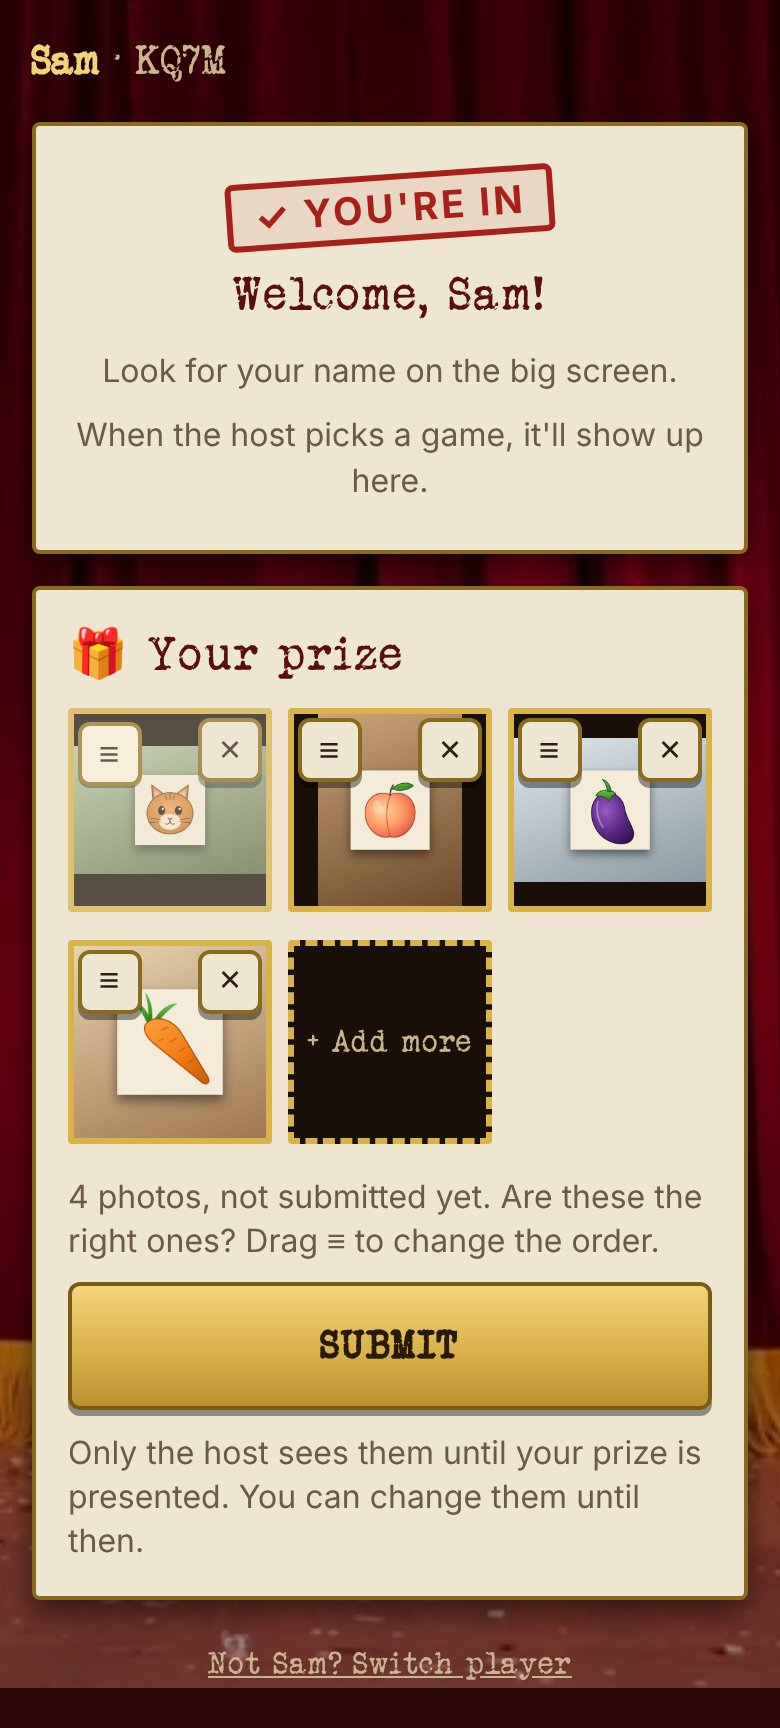
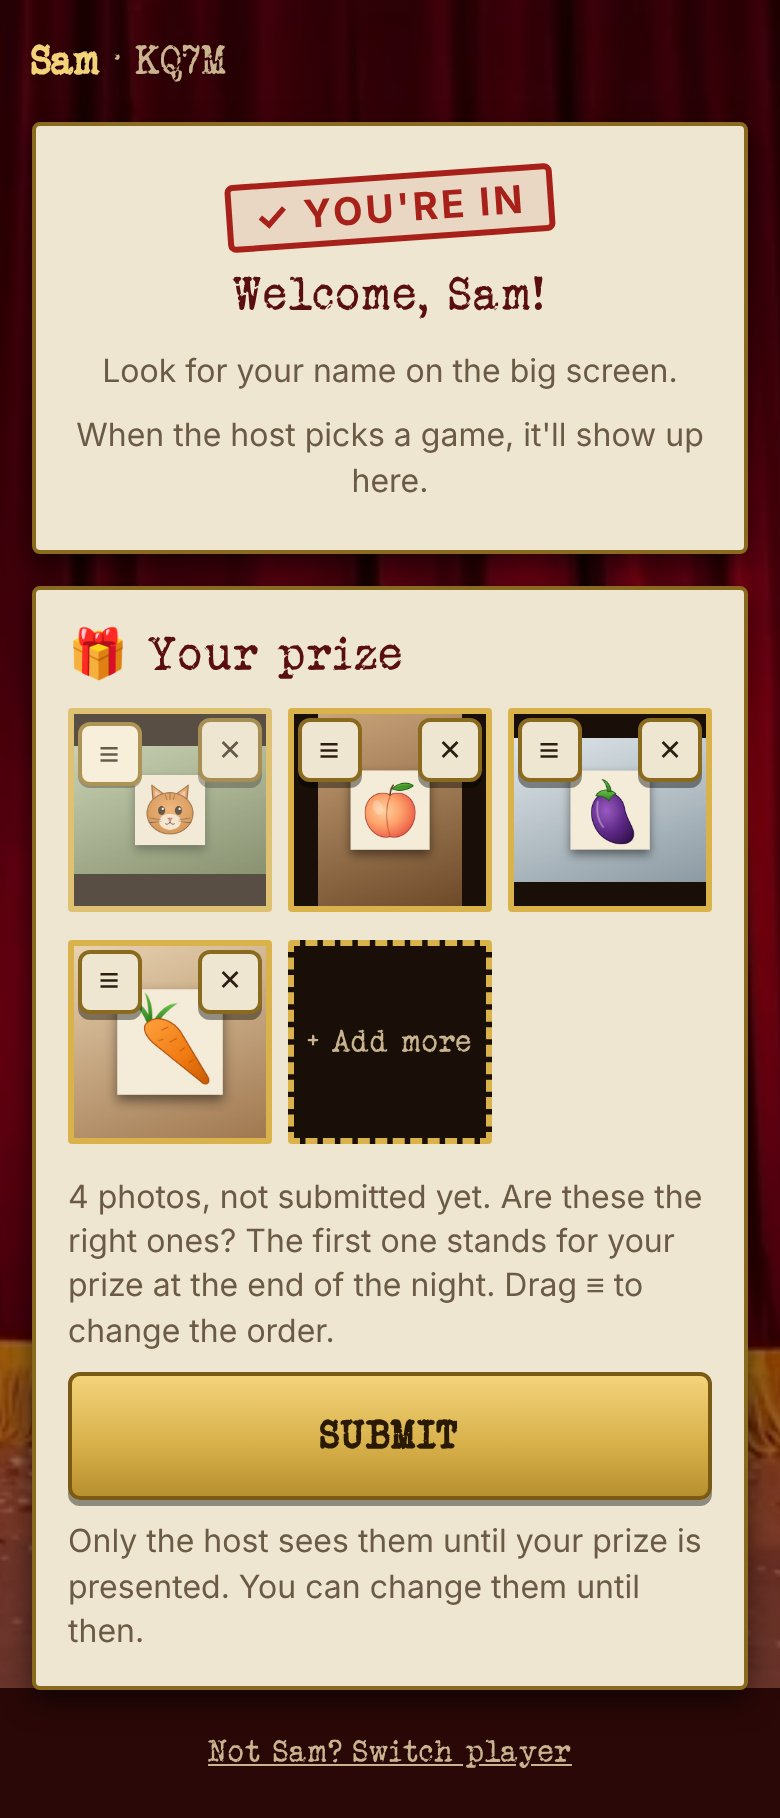
Prize task: the first photo stands for the prize in the haul
Claude-Session: https://claude.ai/code/session_014ghUjXRQwwSCMqfFBR6KAW

diff --git a/src/games/prize/PlayerView.tsx b/src/games/prize/PlayerView.tsx
@@ -50,7 +50,8 @@ export function PrizeChoose({ onAdd }: { onAdd: () => void }) {
 /**
  * Checking the picks before submitting: every photo as a whole thumbnail (never cropped), each with ✕,
  * and "+ Add more" as the last tile, where the next photo will go. ≡ drags a photo to a new place, as on
- * the run of show; the host's previews follow this order. Only the ≡ drags, so a thumb landing on a
+ * the run of show; the host's previews follow this order, and the first photo is the prize's photo in the
+ * winner's haul at the end of the night. Only the ≡ drags, so a thumb landing on a
  * photo still scrolls the page. Removing the last photo goes back to the empty card.
  */
 export function PrizeCheck({ picked, onAdd, onRemove, onReorder, onSubmit }: {
@@ -98,7 +99,7 @@ export function PrizeCheck({ picked, onAdd, onRemove, onReorder, onSubmit }: {
         ))}
         <li><button className="prize-add" onClick={onAdd}>+ Add more</button></li>
       </ul>
-      <p className="slot-hint">{n} {n === 1 ? "photo" : "photos"}, not submitted yet. Are these the right ones? Drag ≡ to change the order.</p>
+      <p className="slot-hint">{n} {n === 1 ? "photo" : "photos"}, not submitted yet. Are these the right ones? The first one stands for your prize at the end of the night. Drag ≡ to change the order.</p>
       <button className="big" onClick={onSubmit}>Submit</button>
       <p className="slot-hint">{WHO_SEES}</p>
     </section>

diff --git a/docs/redesign-decisions.md b/docs/redesign-decisions.md
@@ -226,9 +226,10 @@ Each contestant brings a prize; the winner takes the whole haul. Today the Prize
 | What a prize is | One or more photos. | One video instead of photos (agreed at first, then dropped by Jeffrey: photos only). Photos and a video mixed. |
 | When guests submit | From check-in onward. | Only once the host opens the task: prizes are made ahead, so guests can get it done on arrival. |
 | Changing it | The guest can change it until the host starts presenting their prize. After that only the host can add photos to it. | Locked on submit, as in Photos: nothing is judged before it's presented, so a lock buys nothing. |
+| The haul's photo | The haul shows one photo per prize: always the guest's first photo. | |
 | Presenting | The host sees previews of every photo and video in that guest's prize, and picks which one goes on the big screen. Nothing goes up until the host taps one. | Showing the first one automatically. |
 | Choosing (phone) | A "🎁 Your prize" card under the "✓ You're in" card: a "Your prize" placeholder, "Not submitted yet. Add one or more photos of your prize.", one full-width paper "Add photos" button (several at once), then "Only the host sees them until your prize is presented. You can change them until then." No gold until something is picked. | "Choose photos" and "Choose a video" side by side (the first version, while videos were in). One "Choose photos or a video" button: the either/or rule would only show up as an error after picking. Photos' two equal buttons, "📷 Take a photo" and "Choose photos": on iPhone the second already offers Take Photo in its own menu, so the first only saved a tap. |
-| Checking the picks (phone) | The picked photos replace the placeholder as whole thumbnails on a dark mat, three to a row. Each has the run of show's ≡ in one top corner and a small paper ✕ in the other. ≡ drags the photo to a new place (it goes faint while dragged, like a dragged task), and the host's previews follow that order. The last tile is a dashed "+ Add more", where the next photo will land. Then "4 photos, not submitted yet. Are these the right ones? Drag ≡ to change the order.", the gold Submit, and the same who-sees-it line. Removing the last photo goes back to the empty card. *Proposed.* | Cropped square thumbnails: the style guide never crops media, and a crop could hide the prize. "Add more" as a separate button under the grid: the tile shows where the new photo will go. No reordering (the first proposal, since the host picks what to show): Jeffrey wants guests to set the order. Dragging the whole photo: a thumb landing on a photo would grab it instead of scrolling the page. Tapping a thumbnail to see it big: the phone's own picker already shows each photo large. |
+| Checking the picks (phone) | The picked photos replace the placeholder as whole thumbnails on a dark mat, three to a row. Each has the run of show's ≡ in one top corner and a small paper ✕ in the other. ≡ drags the photo to a new place (it goes faint while dragged, like a dragged task), and the host's previews follow that order. The first photo is the prize's one photo in the winner's haul. The last tile is a dashed "+ Add more", where the next photo will land. Then "4 photos, not submitted yet. Are these the right ones? The first one stands for your prize at the end of the night. Drag ≡ to change the order.", the gold Submit, and the same who-sees-it line. Removing the last photo goes back to the empty card. *Proposed.* | Cropped square thumbnails: the style guide never crops media, and a crop could hide the prize. "Add more" as a separate button under the grid: the tile shows where the new photo will go. No reordering (the first proposal, since the host picks what to show): Jeffrey wants guests to set the order. Dragging the whole photo: a thumb landing on a photo would grab it instead of scrolling the page. Tapping a thumbnail to see it big: the phone's own picker already shows each photo large. |
 
 ## Notes for building
 
